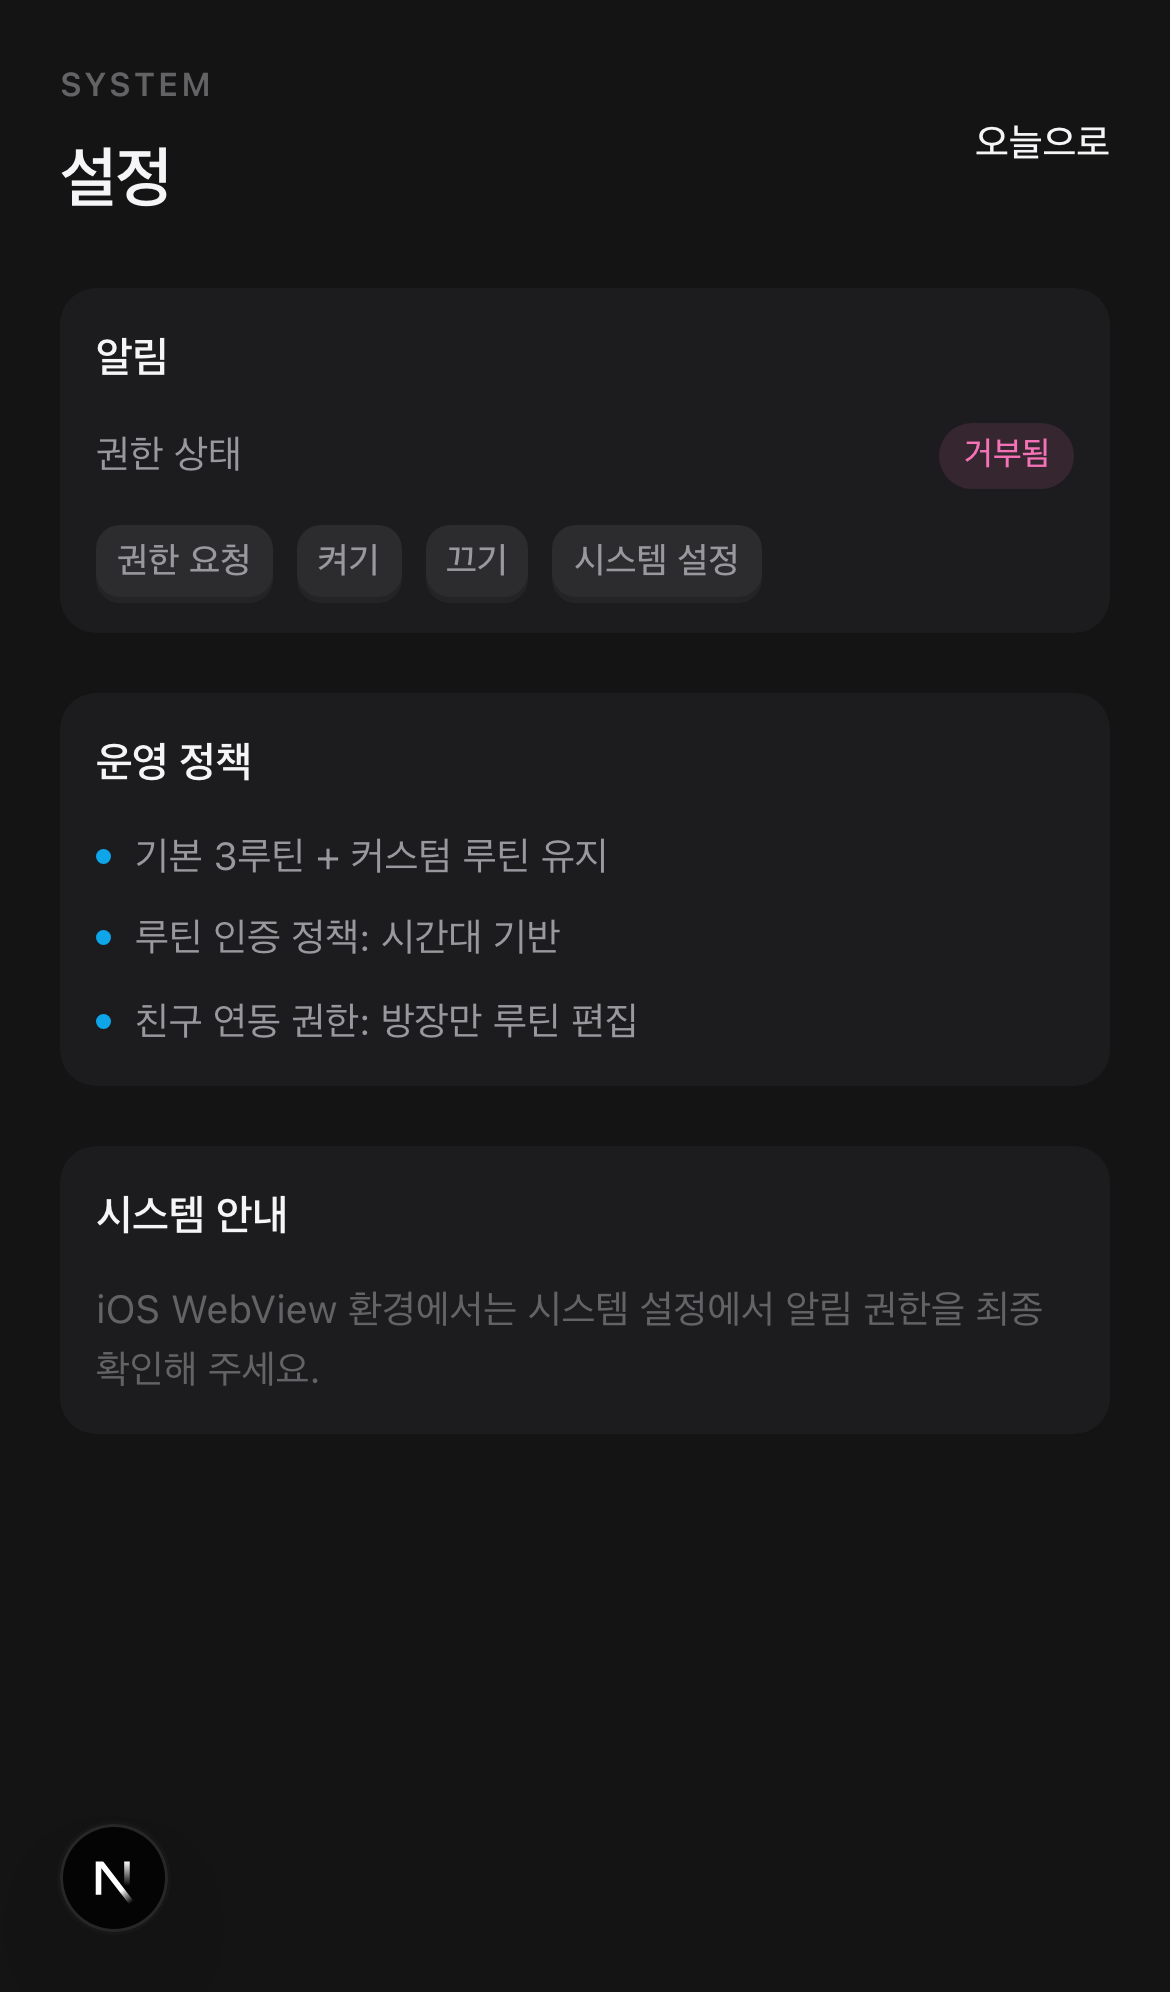
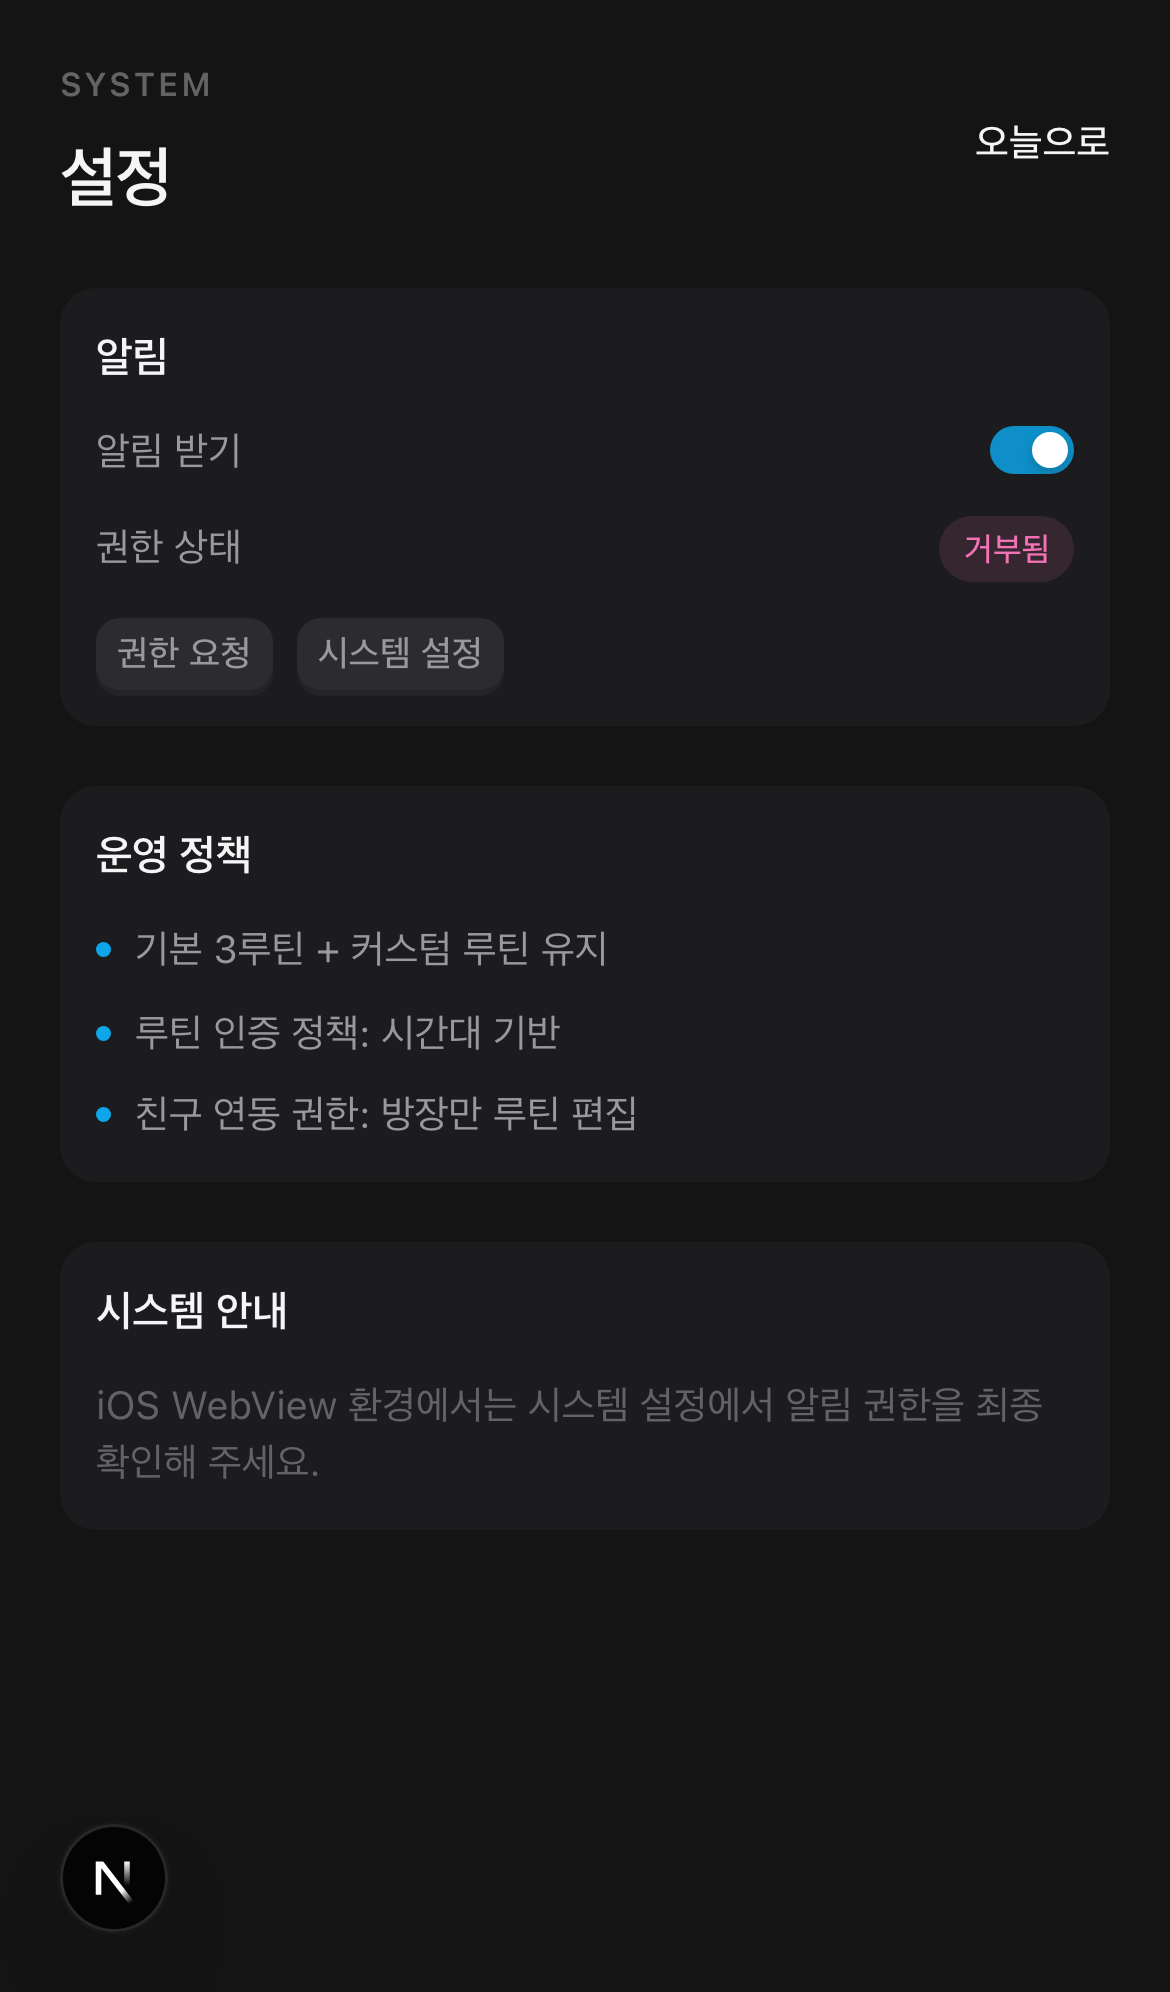
feat: 알림 켜기/끄기 버튼을 토글 스위치로 변경
- Antd Switch 컴포넌트 사용
- '알림 받기' 토글 행 추가
- 기존 '켜기'/'끄기' 버튼 제거, '권한 요청'/'시스템 설정'만 유지
- 테스트 업데이트 (87/87 통과)

diff --git a/apps/web/src/app/settings/page.tsx b/apps/web/src/app/settings/page.tsx
@@ -2,7 +2,7 @@
 
 import Link from 'next/link';
 import { useState } from 'react';
-import { Button } from 'antd';
+import { Button, Switch } from 'antd';
 
 import { AuthRequired } from '@/components/auth-required';
 import { PageShell } from '@/components/ui';
@@ -32,6 +32,7 @@ export default function SettingsPage() {
     if (typeof window === 'undefined' || !('Notification' in window)) return 'unsupported';
     return Notification.permission;
   });
+  const [notificationEnabled, setNotificationEnabled] = useState(true);
 
   const requestPermission = async () => {
     if (sendNativeAction('request-notification-permission')) return;
@@ -39,6 +40,11 @@ export default function SettingsPage() {
     if (typeof window === 'undefined' || !('Notification' in window)) return;
     const result = await Notification.requestPermission();
     setPermission(result);
+  };
+
+  const handleToggle = (checked: boolean) => {
+    setNotificationEnabled(checked);
+    sendNativeAction('toggle-notification', checked);
   };
 
   return (
@@ -63,6 +69,18 @@ export default function SettingsPage() {
           {/* Notification */}
           <div className="bg-ds-surface rounded-ds-lg pad-card grid gap-ds-card-gap">
             <p className="m-0 text-[14px] font-semibold text-ds-text">알림</p>
+
+            {/* Toggle */}
+            <div className="flex justify-between items-center">
+              <span className="text-[13px] text-ds-text-muted">알림 받기</span>
+              <Switch
+                checked={notificationEnabled}
+                onChange={handleToggle}
+                size="small"
+              />
+            </div>
+
+            {/* Permission status */}
             <div className="flex justify-between items-center">
               <span className="text-[13px] text-ds-text-muted">권한 상태</span>
               <span
@@ -79,6 +97,8 @@ export default function SettingsPage() {
                 {permissionLabel(permission)}
               </span>
             </div>
+
+            {/* Actions */}
             <div className="flex gap-ds-inline flex-wrap">
               <Button
                 size="small"
@@ -86,20 +106,6 @@ export default function SettingsPage() {
                 className="!bg-ds-surface-strong !text-ds-text-muted !border-0 !text-[12px] !font-medium"
               >
                 권한 요청
-              </Button>
-              <Button
-                size="small"
-                onClick={() => { void sendNativeAction('toggle-notification', true); }}
-                className="!bg-ds-surface-strong !text-ds-text-muted !border-0 !text-[12px] !font-medium"
-              >
-                켜기
-              </Button>
-              <Button
-                size="small"
-                onClick={() => { void sendNativeAction('toggle-notification', false); }}
-                className="!bg-ds-surface-strong !text-ds-text-muted !border-0 !text-[12px] !font-medium"
-              >
-                끄기
               </Button>
               <Button
                 size="small"

diff --git a/apps/web/src/app/settings/page.test.tsx b/apps/web/src/app/settings/page.test.tsx
@@ -54,8 +54,7 @@ describe('SettingsPage', () => {
   it('has notification action buttons', () => {
     render(<SettingsPage />);
     expect(screen.getAllByText('권한 요청').length).toBeGreaterThanOrEqual(1);
-    expect(screen.getAllByText('켜기').length).toBeGreaterThanOrEqual(1);
-    expect(screen.getAllByText('끄기').length).toBeGreaterThanOrEqual(1);
+    expect(screen.getAllByText('알림 받기').length).toBeGreaterThanOrEqual(1);
   });
 
   it('has back link to today', () => {
